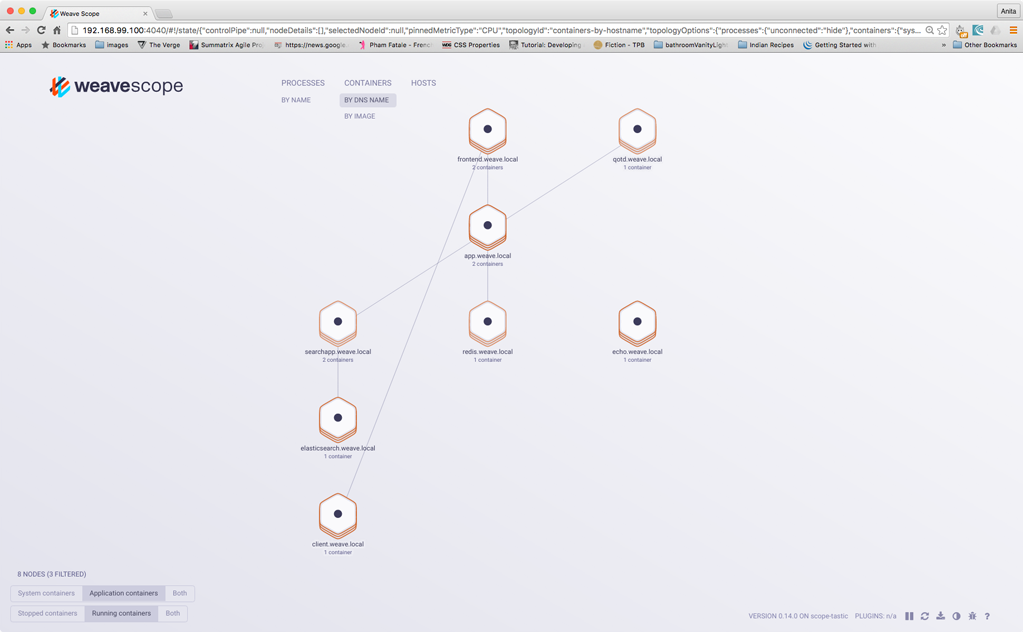
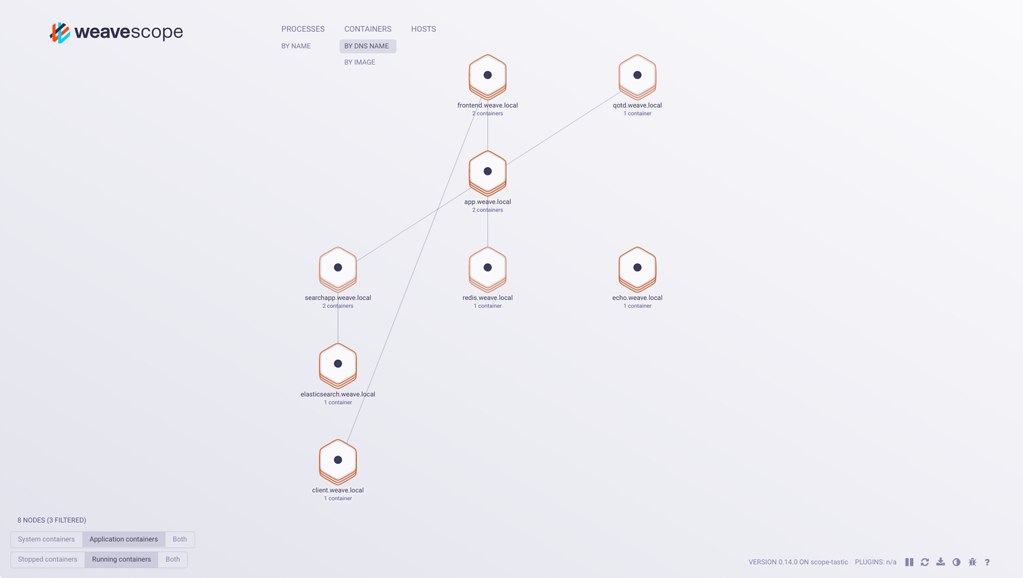
removed browser bar added ascii drawings

diff --git a/site/how-it-works.md b/site/how-it-works.md
@@ -17,14 +17,13 @@ Weave Scope consists of two components: the app and the probe. The components ar
 
 Scope can also be used to feed reports to the Scope Service. The Scope Service allows you centrally manage and share access to your Scope UI. In this configuration, the probe is run locally and the apps are hosted for you.
 
-[redo drawingXXX]
-
+!['Service Mode Reporting'](service-mode.png)
 
 ##<a name="scope-reporting-in-stand-alone-mode"></a>Scope Reporting in Stand-alone Mode
 
 When running Scope in a cluster, each probe sends its reports to a dedicated app. The app merges the reports from its probe into a comprehensive report that is sent to the browser.  To visualize your entire infrastructure and apps running on that infrastructure, Scope must be launched on to every machine you are using.
 
-[redo drawingXXX]
+!['Stand-alone Reporting'](stand-alone.png)
 
 ##<a name="installing-weave-scope-standalone"></a>Installing Weave Scope Standalone
 
